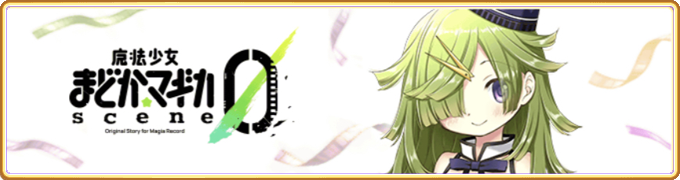
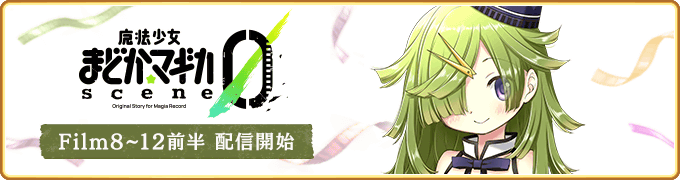
scene0 mami

diff --git a/js/data.js b/js/data.js
@@ -194,20 +194,20 @@ var timerData = [
 	{
         "type": "Event",
         "title": [
-            "Scene0 Film.5 DAY.1 ～ Film.7 DAY.32",
-			"『魔法少女まどか☆マギカ scene0』Film.5 DAY.1 ～ Film.7 DAY.32"
+            "Scene0 Film.8 DAY.1 ～ Film.12 MT DAY.17",
+			"『魔法少女まどか☆マギカ scene0』Film.8 DAY.1 ～ Film.12 MT DAY.17"
         ],
         "image": [
 			"imgs/scene-zero/scene00.png"
 
         ],
         "column": 0,
-        "priority": 1,
+        "priority": 0,
         "timers": [
 			{
-				name: "BATTLE 5 The Sweets Witch",
-				start: "dec 4 2023, 16:00",
-				end: "dec 15 2023, 23:59",
+				name: "Limited story and challenge quests",
+				start: "jan 12 2024, 16:00",
+				end: "jan 26 2024, 23:59",
 				markers:
 				[{title: "Film.4 DAY.15~32 Battle 4", time: "nov 15 2023, 17:00", type: "star"}]
 			},
@@ -228,7 +228,7 @@ var timerData = [
 
         ],
         "column": 0,
-        "priority": 0,
+        "priority": 1,
         "timers": [
 			{
 				name: "Countdown to New Years Login Bonuses",
@@ -269,7 +269,7 @@ var timerData = [
 
         ],
         "column": 0,
-        "priority": 0,
+        "priority": 1,
         "timers": [
 			{
 				name: "½ AP Quests, 2x SP, 2x Player EXP,  Double Chance Enhancement ",
@@ -763,20 +763,20 @@ var timerData = [
 	{
         "type": "Gacha",
         "title": [
-			"【New Limited Gatcha】Sayaka Miki scene0 ver. Pickup & Step-up Gacha",
-            "『期間限定  美樹さやか scene0 ver.scene0 ver. ステップアップ&ピックアップガチャ』"
+			"【New Limited Gatcha】Mami Tomoe scene0 ver. Pickup & Step-up Gacha",
+            "『期間限定   巴マミ scene0 ver.scene0 ver. ステップアップ&ピックアップガチャ』"
         ],
         "image": [
-			"imgs/scene-zero/sayaka00.png",
-			"imgs/scene-zero/sayaka01.png"
+			"imgs/scene-zero/mami00.png",
+			"imgs/scene-zero/mami01.png"
         ],
         "column": 1,
-        "priority": 1,
+        "priority": 0,
         "timers": [
             {
                 name: "",
-                start: "dec 4 2023, 16:00",
-				end: "dec 18 2023, 14:59",
+                start: "jan 12 2024, 16:00",
+				end: "jan 29 2024, 14:59",
             }
         ]
     },
